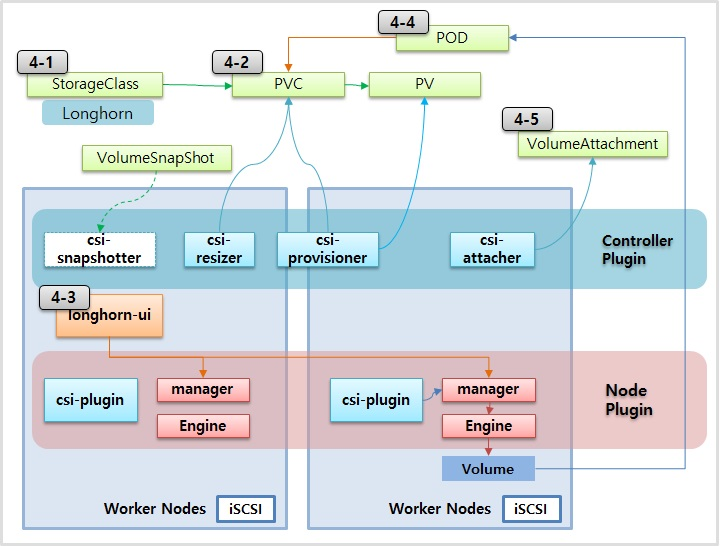
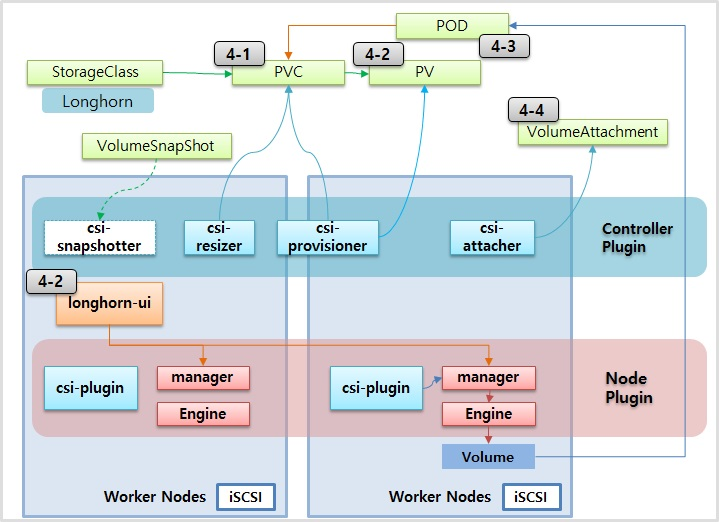
1

diff --git a/practice/architecture/storage/index.html b/practice/architecture/storage/index.html
@@ -33,7 +33,7 @@
 
 <meta itemprop="datePublished" content="2020-07-13T00:00:00&#43;00:00" />
 <meta itemprop="dateModified" content="2020-07-13T00:00:00&#43;00:00" />
-<meta itemprop="wordCount" content="330">
+<meta itemprop="wordCount" content="352">
 
 
 
@@ -444,6 +444,37 @@ spec:
 <pre><code class="language-sh">kubectl get pods -n longhorn-system
 </code></pre>
 
+<p><br/></p>
+
+<h3 id="3-4-기존-longhorn-storageclass-삭제-및-재생성">3-4) 기존 Longhorn StorageClass 삭제 및 재생성</h3>
+
+<pre><code class="language-sh">kubectl get storageclasses.storage.k8s.io -n longhorn-system longhorn
+kubectl delete storageclasses.storage.k8s.io -n longhorn-system longhorn
+</code></pre>
+
+<pre><code class="language-yaml">cat &lt;&lt;EOF | kubectl create -f -
+kind: StorageClass
+apiVersion: storage.k8s.io/v1
+metadata:
+  name: longhorn
+provisioner: driver.longhorn.io
+allowVolumeExpansion: true
+parameters:
+  numberOfReplicas: &quot;2&quot;
+  staleReplicaTimeout: &quot;2880&quot;
+  fromBackup: &quot;&quot;
+EOF
+</code></pre>
+
+<p><br/></p>
+
+<h3 id="3-5-longhorn-dashboard-접속을-위한-port-type변경">3-5) Longhorn Dashboard 접속을 위한 Port Type변경</h3>
+
+<p>Service Type 변경 [ClusterIP -&gt; NodePort]</p>
+
+<pre><code class="language-sh">kubectl edit svc -n longhorn-system longhorn-frontend
+</code></pre>
+
 <p><br/>
 <br/></p>
 
@@ -485,26 +516,7 @@ spec:
 
 
 
-<h3 id="4-1-기존-longhorn-storageclass-삭제-및-재생성">4-1) 기존 Longhorn StorageClass 삭제 및 재생성</h3>
-
-<pre><code class="language-sh">kubectl delete storageclasses.storage.k8s.io -n longhorn-system longhorn
-</code></pre>
-
-<pre><code class="language-yaml">kind: StorageClass
-apiVersion: storage.k8s.io/v1
-metadata:
-  name: longhorn
-provisioner: driver.longhorn.io
-allowVolumeExpansion: true
-parameters:
-  numberOfReplicas: &quot;2&quot;
-  staleReplicaTimeout: &quot;2880&quot;
-  fromBackup: &quot;&quot;
-</code></pre>
-
-<p><br/></p>
-
-<h3 id="4-2-persistentvolumeclaim">4-2) PersistentVolumeClaim</h3>
+<h3 id="4-1-persistentvolumeclaim">4-1) PersistentVolumeClaim</h3>
 
 <pre><code class="language-yaml">apiVersion: v1
 kind: PersistentVolumeClaim
@@ -521,16 +533,14 @@ spec:
 
 <p><br/></p>
 
-<h3 id="4-3-longhorn-dashboard-접속">4-3) Longhorn Dashboard 접속</h3>
+<h3 id="4-2-longhorn-dashboard-접속">4-2) Longhorn Dashboard 접속</h3>
 
-<p>Service Type 변경 [ClusterIP -&gt; NodePort]</p>
-
-<pre><code class="language-sh">kubectl edit svc -n longhorn-system longhorn-frontend
+<pre><code class="language-sh">http://localhost:30001
 </code></pre>
 
 <p><br/></p>
 
-<h3 id="4-4-pod">4-4) Pod</h3>
+<h3 id="4-3-pod">4-3) Pod</h3>
 
 <pre><code class="language-yaml">apiVersion: v1
 kind: Pod
@@ -551,7 +561,7 @@ spec:
 
 <p><br/></p>
 
-<h3 id="4-5-longhorn-storageclass-확인">4-5) Longhorn StorageClass 확인</h3>
+<h3 id="4-4-longhorn-volumeattachments-확인">4-4) Longhorn Volumeattachments 확인</h3>
 
 <pre><code class="language-sh">kubectl get -n longhorn-system volumeattachments.storage.k8s.io
 </code></pre>
